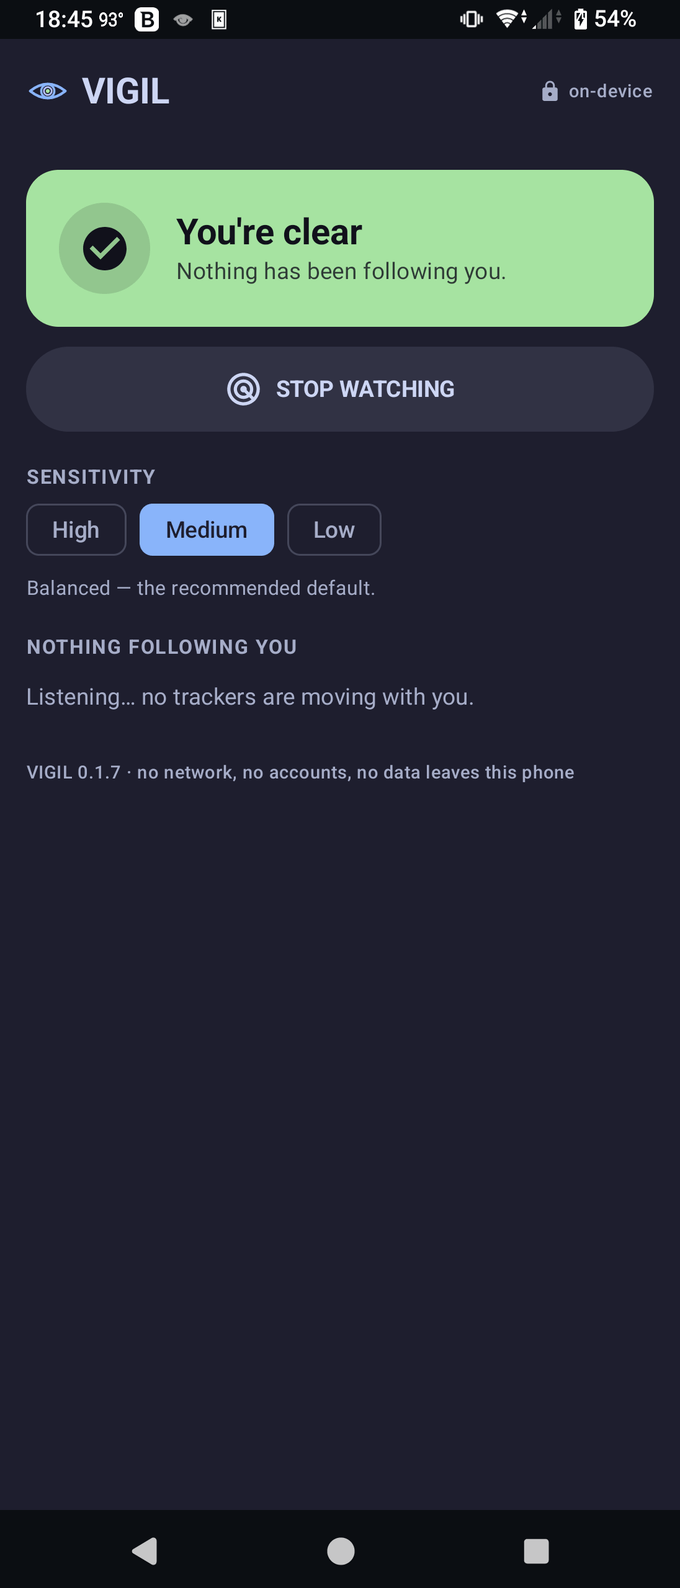
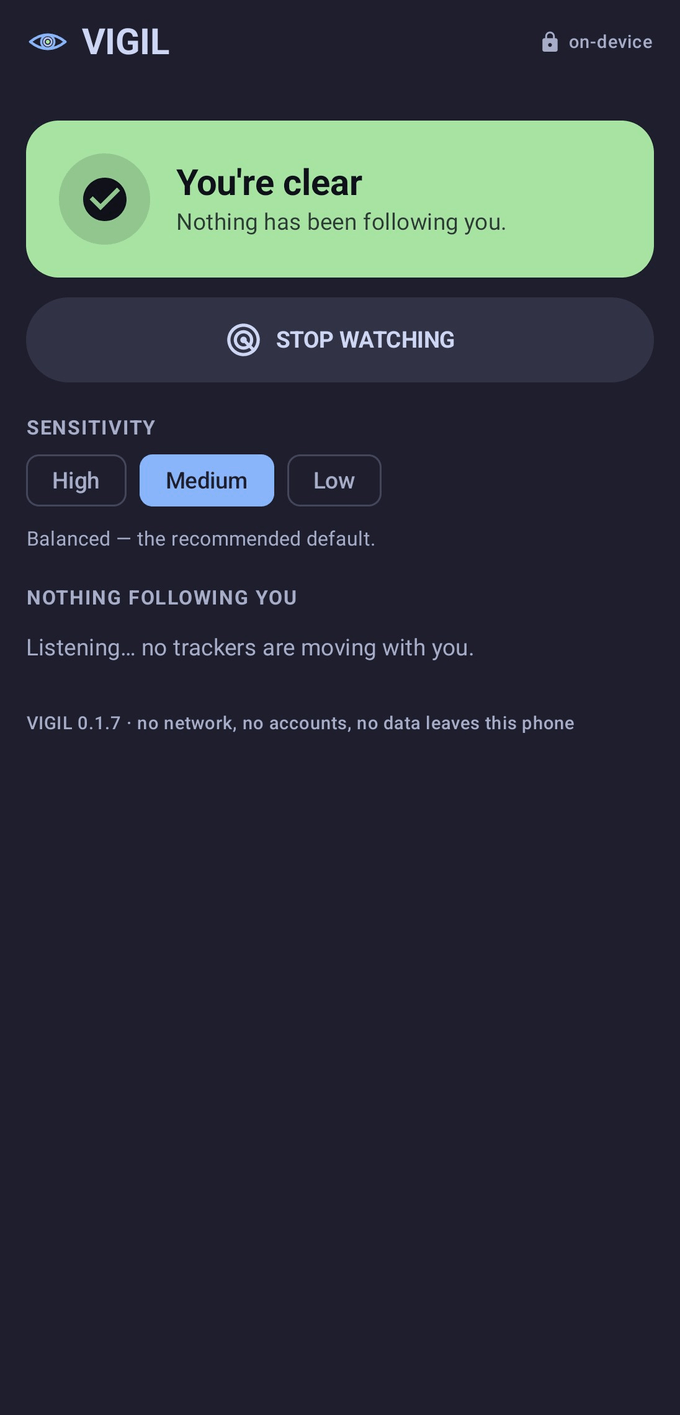
docs: cleaner main-screen screenshot (no device chrome)

Changed region(s): [[0.0, 0.0, 1.0, 0.2799], [0.0309, 0.2799, 0.8338, 0.5286], [0.0, 0.9329, 1.0, 1.0]]

diff --git a/docs/index.html b/docs/index.html
@@ -69,7 +69,7 @@
     </p>
 
     <div class="phone-hero">
-      <img class="phone" src="img/vigil-main.png" width="1096" height="2560"
+      <img class="phone" src="img/vigil-main.png" width="1096" height="2280"
         alt="VIGIL main screen: a green &quot;You're clear — nothing has been following you&quot; card, a Stop Watching button, and a High/Medium/Low sensitivity selector." loading="eager">
     </div>
 